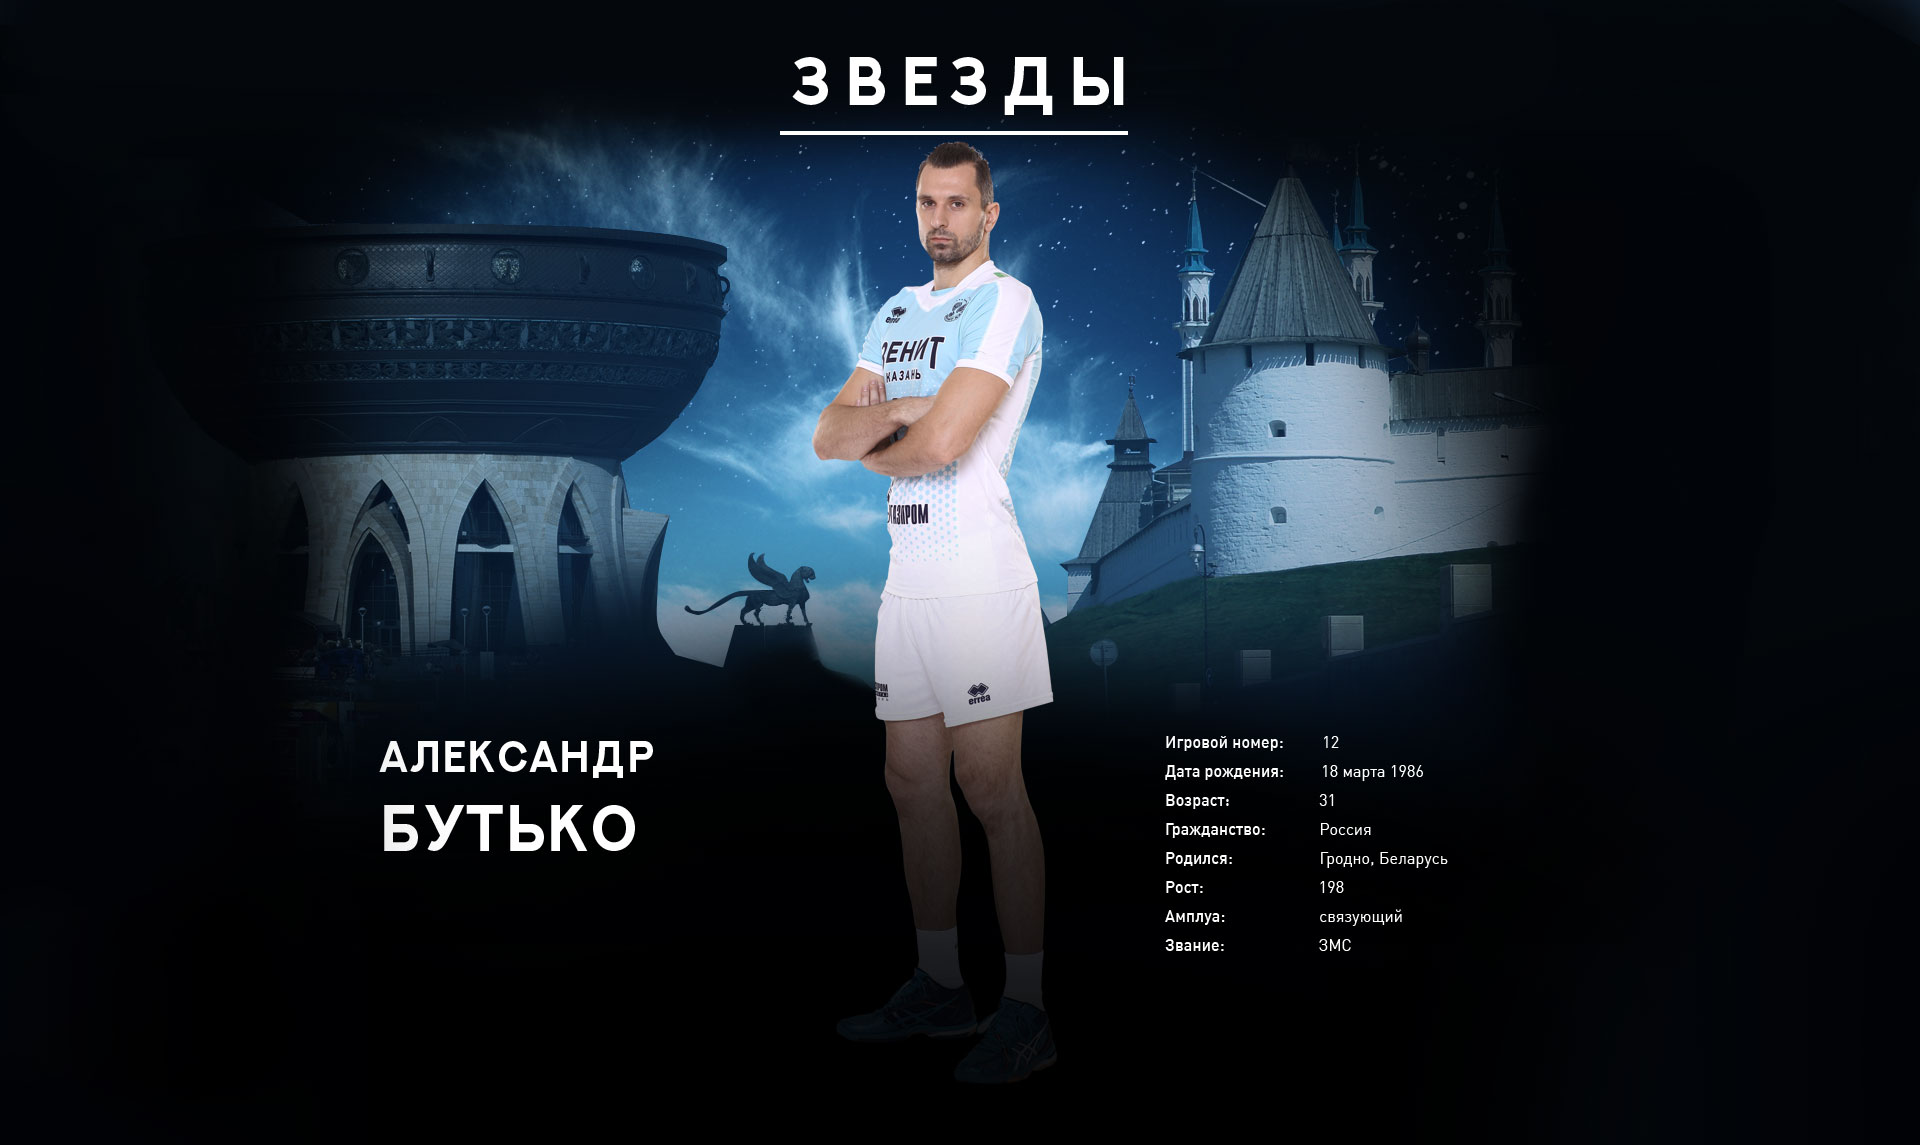
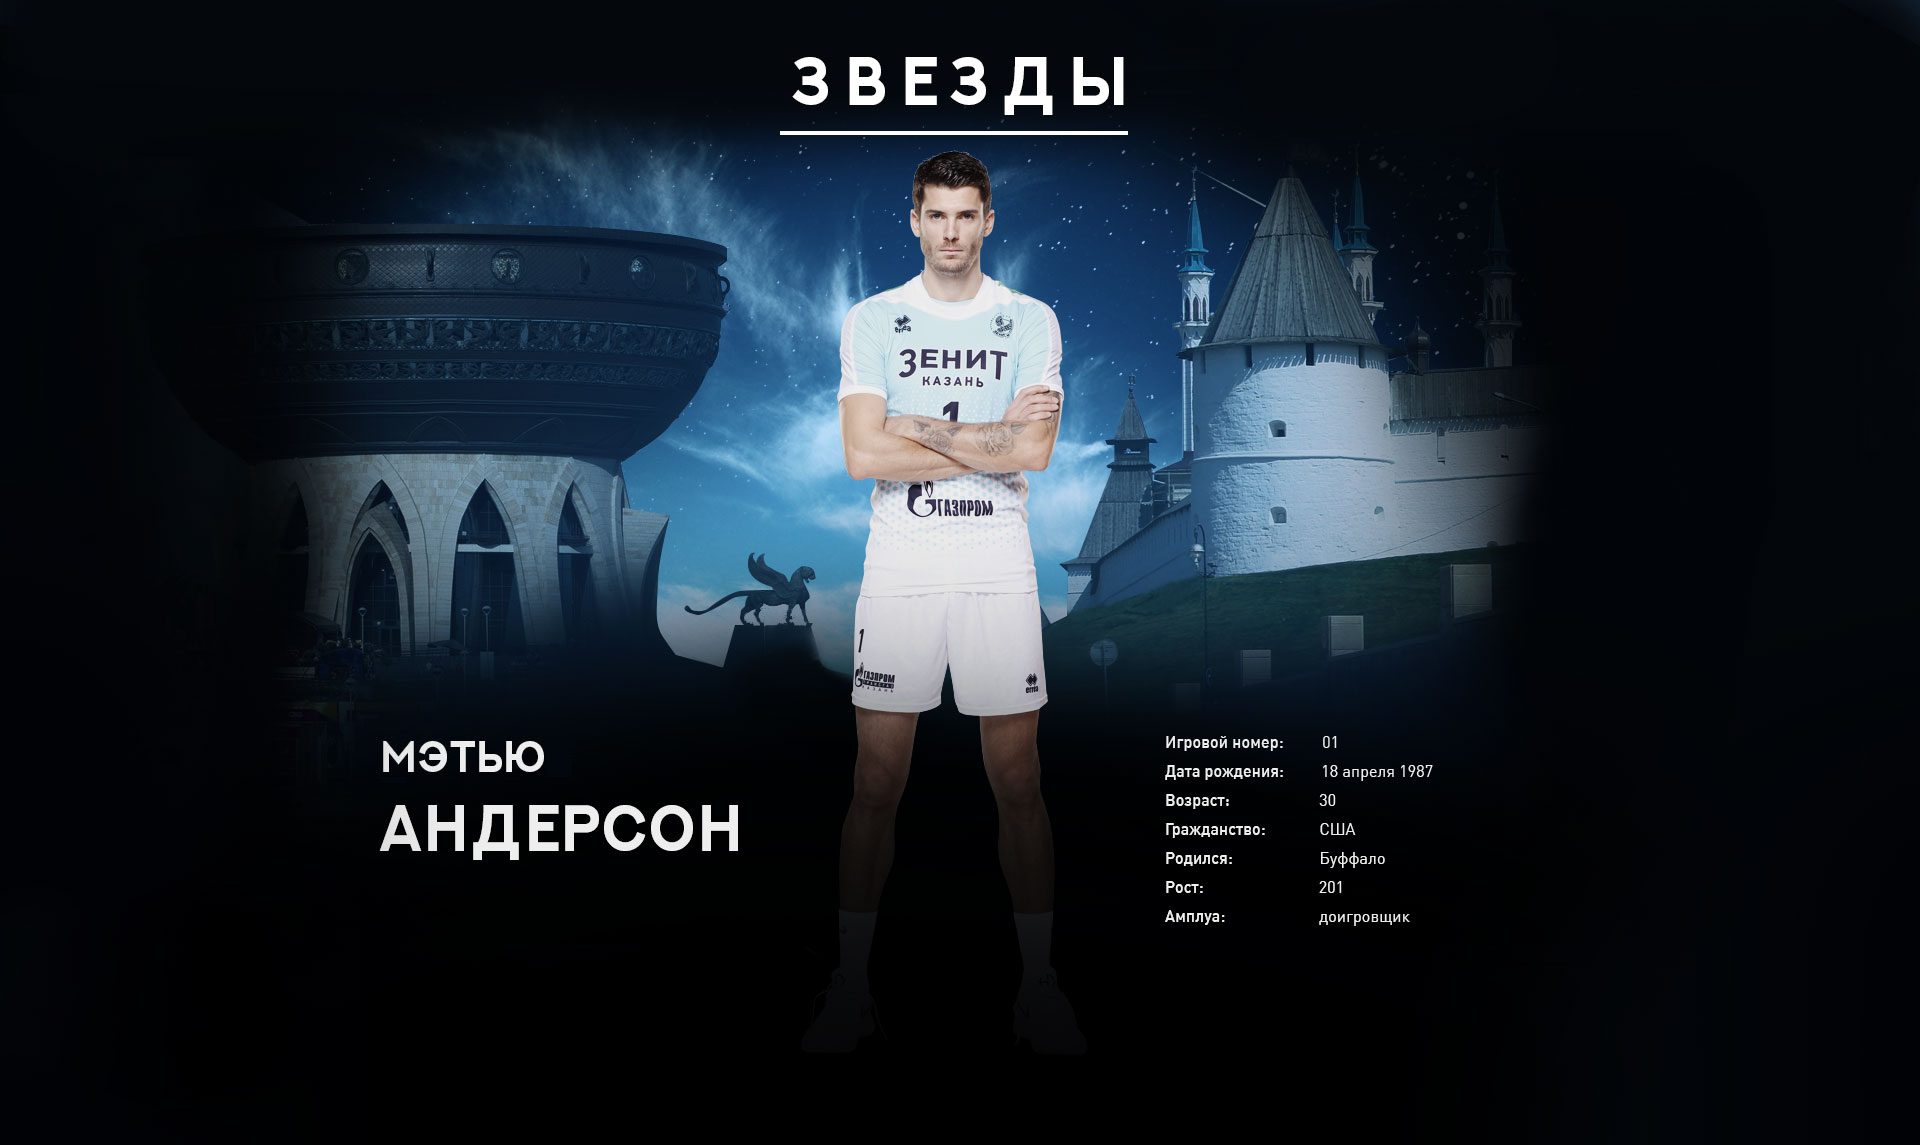
edit zenit

diff --git a/app/index.html b/app/index.html
@@ -32,7 +32,7 @@
                     <h1 class="title-zenit-header">Зенит-Казань</h1>
                 </div>
                 <div class="col-12">
-                    <span class="text-zenit-header">лучший волейбольный клуб европы</span>
+                    <span class="text-zenit-header">лучший волейбольный клуб мира</span>
                 </div>
             </div>
         </div>
@@ -133,12 +133,13 @@
       <!-- Swiper -->
     <div class="swiper-container">
         <div class="swiper-wrapper">
-            <div class="swiper-slide" style="background-image:url(img/player/anders.jpg)"></div>
-            <div class="swiper-slide" style="background-image:url(img/player/guaz.jpg)"></div>
-            <div class="swiper-slide" style="background-image:url(img/player/leon.jpg)"></div>
             <div class="swiper-slide" style="background-image:url(img/player/max.jpg)"></div>
+            <div class="swiper-slide" style="background-image:url(img/player/leon.jpg)"></div>
+            <div class="swiper-slide" style="background-image:url(img/player/anders.jpg)"></div>
+            <div class="swiper-slide" style="background-image:url(img/player/butyko.jpg)"></div>
             <div class="swiper-slide" style="background-image:url(img/player/verbov.jpg)"></div>
             <div class="swiper-slide" style="background-image:url(img/player/volv.jpg)"></div>
+            <div class="swiper-slide" style="background-image:url(img/player/guaz.jpg)"></div>
 
         </div>
         <!-- Add Arrows -->
@@ -147,7 +148,7 @@
             <div class="swiper-button-prev swiper-button-white"></div>
         </div>
     </div>
-    <a href="#" class="price-bil">Купить билет</a>
+    <a href="http://go.zenit-kazan.com/rus " class="price-bil">Купить билет</a>
 </section>
 <section class=" slider-voleibol">
     <div class="container bl-title-slider">
@@ -167,9 +168,14 @@
             <div class="swiper-slide" style="background-image:url(img/stad/5.jpg)"></div>
             <div class="swiper-slide" style="background-image:url(img/stad/6.jpg)"></div>
             <div class="swiper-slide" style="background-image:url(img/stad/7.jpg)"></div>
-            <div class="swiper-slide" style="background-image:url(img/stad/8.jpg)"></div>
+            <div class="swiper-slide" style="background-image:url(img/stad/9.jpg)"></div>
+            <div class="swiper-slide" style="background-image:url(img/stad/10.jpg)"></div>
+            <div class="swiper-slide" style="background-image:url(img/stad/11.jpg)"></div>
+            <div class="swiper-slide" style="background-image:url(img/stad/12.jpg)"></div>
 
         </div>
+
+
         <!-- Add Arrows -->
         <div class="pagin-bl">
             <div class="swiper-button-next swiper-button-white"></div>
@@ -178,17 +184,35 @@
     </div>
 </section>
 <section class="street-bl" id="adres">
-    <div class="container">
+    <div class="container container-tab">
         <div class="row">
             <div class="col-12 text-center">
                 <h2 class="title-adres">Как добраться</h2>
             </div>
         </div>
+        <div class="row">
+            <div class="col-12">
+                <ul id="tabs-nav" class="list-ico">
+                    <li><a href="#tab1">
+                        <img src="img/car1.png">
+                    </a></li>
+                    <li><a href="#tab2">
+                        <img src="img/car2.png" style="    top: 12px;    position: relative;">
+                    </a></li>
+                </ul> <!-- END tabs-nav -->
+            </div>
+        </div>
     </div>
 
+    <div id="tabs-content" class="content-adres">
+        <div id="tab1" class="tab-content adres-bl" style="background: #d1e3f2 url(../img/mapcar2.jpg)no-repeat">
+        </div>
+        <div id="tab2" class="tab-content adres-bl" style="display: none; background: #d1e3f2 url(../img/mapcar1.jpg)no-repeat">
+        </div>
+    </div>
 </section>
 <section class="section-price-bil" id="price">
-    <a href="#" class="btn-big-price">Купить билет</a>
+    <a href="http://go.zenit-kazan.com/rus " class="btn-big-price">Купить билет</a>
 </section>
 <footer class="footer">
     <div class="container">
@@ -196,11 +220,11 @@
             <div class="col-6">
                 <a href="#" class="mail-nik">volleyzenit</a>
                 <div class="soc-ico">
-                    <a href="#"><img src="img/ico_vk.png"></a>
-                    <a href="#"><img src="img/ico_youtub.png"></a>
-                    <a href="#"><img src="img/ico_inst.png"></a>
-                    <a href="#"><img src="img/ico_twit.png"></a>
-                    <a href="#"><img src="img/ico_fb.png"></a>
+                    <a target="_blank" href="http://vk.com/volleyzenit"><img src="img/ico_vk.png"></a>
+                    <a target="_blank" href="http://www.youtube.com/volleyzenit"><img src="img/ico_youtub.png"></a>
+                    <a target="_blank" href="https://www.instagram.com/volleyzenit/"><img src="img/ico_inst.png"></a>
+                    <a target="_blank" href="https://twitter.com/volleyzenit "><img src="img/ico_twit.png"></a>
+                    <a target="_blank" href="http://www.facebook.com/volleyzenit "><img src="img/ico_fb.png"></a>
                 </div>
             </div>
             <div class="col-6 text-right partners-link">
@@ -214,6 +238,8 @@
         </div>
     </div>
 </footer>
+
+
 <script src="bower_components/jquery/dist/jquery.min.js"></script>
 <script src="bower_components/swiper/dist/js/swiper.min.js"></script>
 <script src="js/script.js"></script>

diff --git a/app/styles/style.scss b/app/styles/style.scss
@@ -380,10 +380,67 @@ h1, h2, h3, h4 {
   }
 }
 .street-bl {
-  background: #d1e3f2 url(../img/steet-bl.jpg)no-repeat;
   min-height: 1207px;
   padding-top: 52px;
-  background-position: center;
+  background-position: center!important;
+  position: relative;
+  overflow: hidden;
+  .container-tab {
+    z-index: 2;
+    position: relative;
+  }
+  .content-adres {
+    position: absolute;
+    top: 0;
+    width: 100%;
+  }
+  .adres-bl {
+      min-height: 1207px;
+      padding-top: 52px;
+      background-position: center!important;
+  }
+  .list-ico {
+    list-style: none;
+    text-align: center;
+    padding: 0;
+    li {
+      width: 25%;
+      display: inline-block;
+      position: relative;
+      &:after {
+        content: "";
+        height: 54px;
+        width: 120px;
+        box-shadow: 0px 0px 20px 20px #fff;
+        position: absolute;
+        left: 0;
+        right: 0;
+        top: -45px;
+        background-color: #ffffff;
+        bottom: 0;
+        margin: auto;
+        -webkit-border-radius: 50%;
+        -moz-border-radius: 50%;
+        border-radius: 50%;
+        z-index: 0;
+        opacity: 0;
+        -webkit-transition: 0.3s all;
+        -moz-transition: 0.3s all;
+        -ms-transition: 0.3s all;
+        -o-transition: 0.3s all;
+        transition: 0.3s all;
+      }
+      a {
+        position: relative;
+        z-index: 2;
+      }
+      &:hover,&.active {
+        &:after {
+          opacity: 0.8;
+        }
+      }
+    }
+  }
 }
 .title-adres {
   font-size: 78px;

diff --git a/app/js/script.js b/app/js/script.js
@@ -53,5 +53,21 @@ $(document).ready(function () {
             nextEl: '.swiper-button-next',
             prevEl: '.swiper-button-prev',
         },
-    })
+    });
+
+
+    $('#tabs-nav li:first-child').addClass('active');
+    $('.tab-content').show();
+    $('.tab-content:first').show();
+
+// Click function
+    $('#tabs-nav li').click(function(){
+        $('#tabs-nav li').removeClass('active');
+        $(this).addClass('active');
+        $('.tab-content').hide();
+
+        var activeTab = $(this).find('a').attr('href');
+        $(activeTab).show();
+        return false;
+    });
 })
